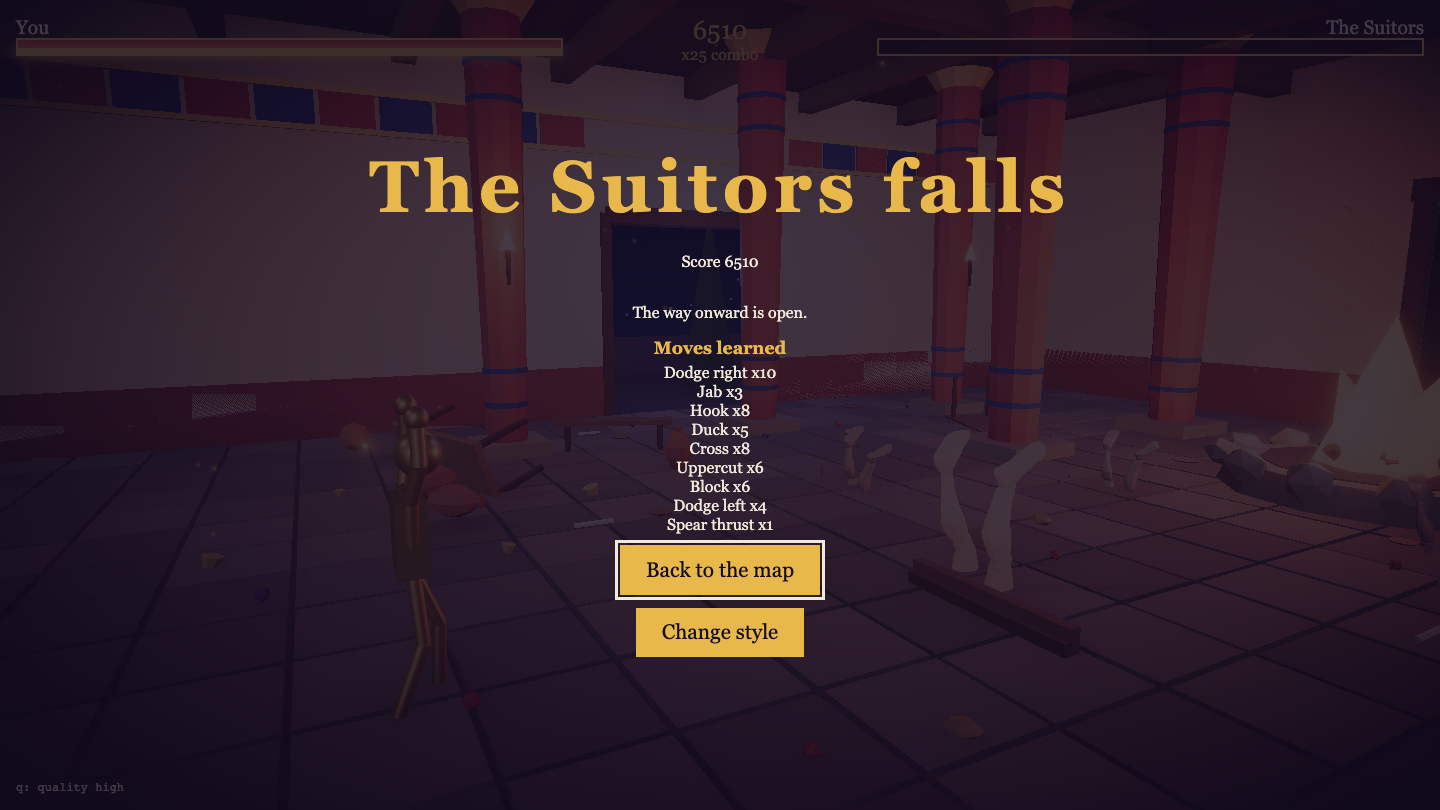
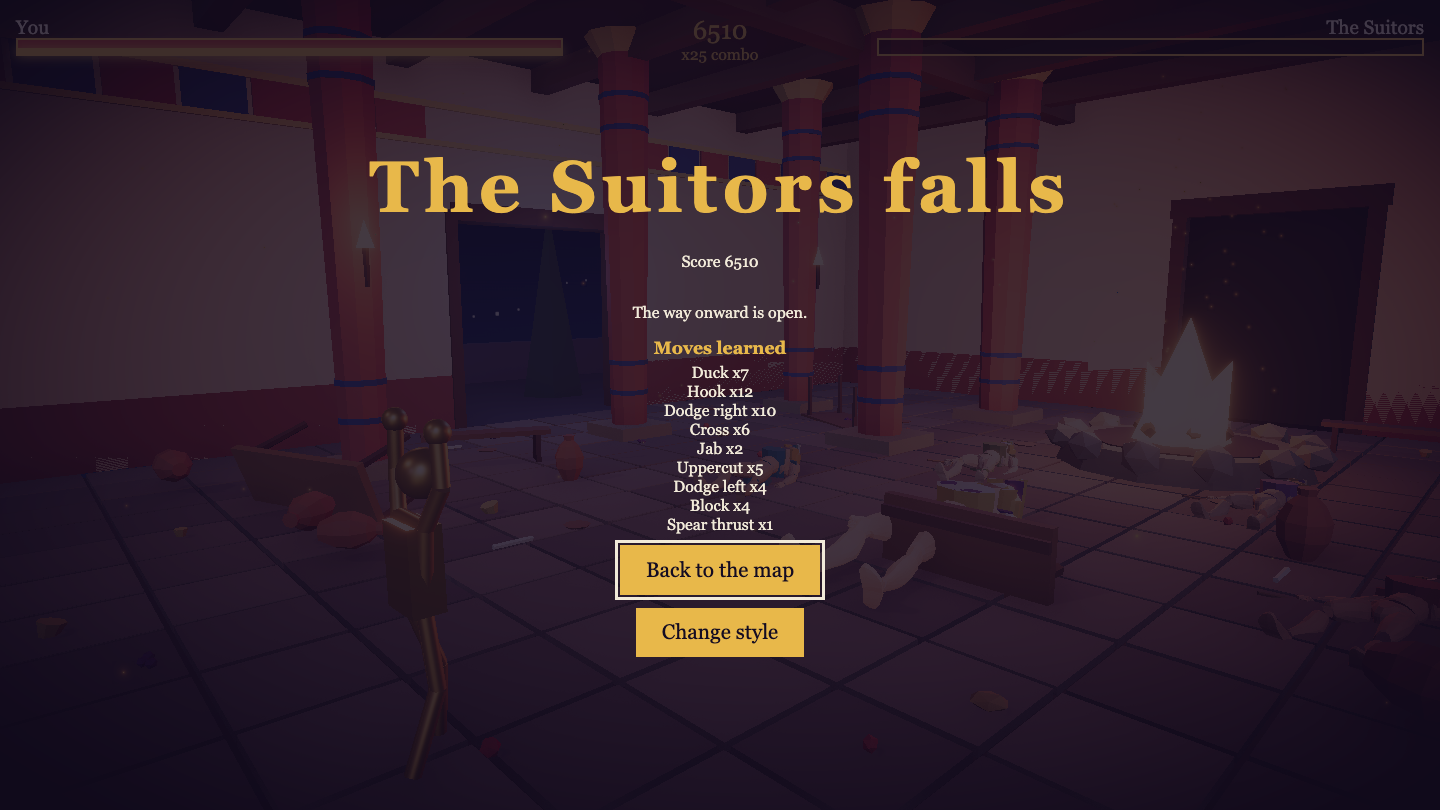
Let the knockback clip lay fallen suitors down instead of turning them under the floor

diff --git a/src/render/monsters/suitors/Figure.tsx b/src/render/monsters/suitors/Figure.tsx
@@ -25,25 +25,20 @@ export interface FigureProps {
   readonly z?: number;
   /** Turn about Y, radians. */
   readonly yaw?: number;
-  readonly fallen: boolean;
   /** Skip the joint spheres (8k of the mannequin's 13.7k triangles): for the small men in the back. */
   readonly lite?: boolean;
   /** Helm and gear for the stand-in, drawn in metres. */
   readonly standInGear?: ReactNode;
 }
 
-const FALL = -Math.PI / 2 + 0.06;
-
-/** Places the figure and eases it into a turn or onto its back. The mannequin's back is 0.2 units behind its origin, so lift it. */
-function Pose({ x, z, yaw, fallen, meshHeight, children }: { x: number; z: number; yaw: number; fallen: boolean; meshHeight: number; children: ReactNode }) {
+/** Places the figure and eases it into a turn. A fallen figure lies down through its knockback clip, so no extra tilt is added here. */
+function Pose({ x, z, yaw, children }: { x: number; z: number; yaw: number; children: ReactNode }) {
   const ref = useRef<Group>(null);
   useFrame((_, delta) => {
     const g = ref.current;
     if (!g) return;
     const dt = Math.min(delta, 0.05);
-    g.rotation.x = MathUtils.damp(g.rotation.x, fallen ? FALL : 0, fallen ? 5 : 8, dt);
     g.rotation.y = MathUtils.damp(g.rotation.y, yaw, 6, dt);
-    g.position.y = MathUtils.damp(g.position.y, fallen ? 0.16 * (meshHeight / 1.83) : 0, 6, dt);
   });
   return <group ref={ref} position={[x, 0, z]}>{children}</group>;
 }
@@ -87,7 +82,7 @@ function StandIn({ meshHeight, palette, state, gear }: { meshHeight: number; pal
   );
 }
 
-export function Figure({ meshHeight, palette, clips, state, anchors, x = 0, z = 0, yaw = 0, fallen, lite = false, standInGear }: FigureProps) {
+export function Figure({ meshHeight, palette, clips, state, anchors, x = 0, z = 0, yaw = 0, lite = false, standInGear }: FigureProps) {
   const tweak = useMemo(
     () => (material: Material): void => {
       const m = material as Material & { color?: { set: (c: string) => void }; metalness?: number; roughness?: number; flatShading?: boolean };
@@ -103,7 +98,7 @@ export function Figure({ meshHeight, palette, clips, state, anchors, x = 0, z = 
   const fit = useMemo(() => fitFor(meshHeight), [meshHeight]);
   const stand = <StandIn meshHeight={meshHeight} palette={palette} state={state} gear={standInGear} />;
   return (
-    <Pose x={x} z={z} yaw={yaw} fallen={fallen} meshHeight={meshHeight}>
+    <Pose x={x} z={z} yaw={yaw}>
       <ErrorBoundary label="suitor-glb" fallback={stand}>
         <Suspense fallback={stand}>
           <RiggedModel

diff --git a/src/render/monsters/models/Suitors.tsx b/src/render/monsters/models/Suitors.tsx
@@ -55,7 +55,6 @@ function Antinous(props: MonsterProps) {
       state={props}
       anchors={anchors}
       yaw={turnFor(attackId)}
-      fallen={props.defeated}
       standInGear={<Helm palette={palette} plume={look.plume} metal={palette.trim} />}
     />
   );
@@ -86,7 +85,6 @@ function Other({ extra, props }: { extra: Extra; props: MonsterProps }) {
       x={extra.x}
       z={extra.z}
       yaw={extra.yaw}
-      fallen={isFallen(extra, props.phaseIndex, props.defeated)}
       lite
       standInGear={<Helm palette={palette} plume={0.5} metal={BRONZE} />}
     />

diff --git a/docs/models/suitors.md b/docs/models/suitors.md
@@ -19,6 +19,19 @@ Cost, measured in headless Chrome at 1440 by 810 in the real fight: 174 draw cal
 (shadow pass included), 122 and 55k with `q` low. The cave mouth is 124 and 30k on high, 54 and 17k on low. Draw calls
 run higher because five dressed figures carry about eight gear meshes each.
 
+## Review fixes
+
+- Defeat pose (confirmed): the knockback clip already lays the body on its back, and the code added a further quarter
+  turn about x on top, which pushed the torso under the floor and left only the bent legs showing. The extra turn and
+  lift are gone; the clip alone lies every figure down (`b-death-b`, `docs/screenshots/suitors-defeated.png`).
+- Weak-spot ring drift (partly true, not changed): the ring is a fixed point in the monster's space. It sits on the
+  helm and throat in the idle and guard poses (checked at phase 1 and 2). It only drifts while the hit flinch plays,
+  which is under a second after a landed hit. A ring that tracked the head bone would need a change in the shared
+  Scene, so it is left.
+- Frame cost: still not timed on a real laptop; the draw-call figures above stand.
+- Licence: both itch.io pages were read on 2026-11-14. Base Characters says "Creative Commons Zero v1.0 Universal"
+  and "(CC0 License)"; Animation Library 2 says "CC0 License".
+
 ## CREDITS.md line to add
 
 | Mannequin and animations (Quaternius, Universal Base Characters and Universal Animation Library 2), trimmed to 11 clips | `public/models/suitors/suitor.glb`, the suitors in the great hall | https://quaternius.itch.io/universal-animation-library-2 | CC0 |
